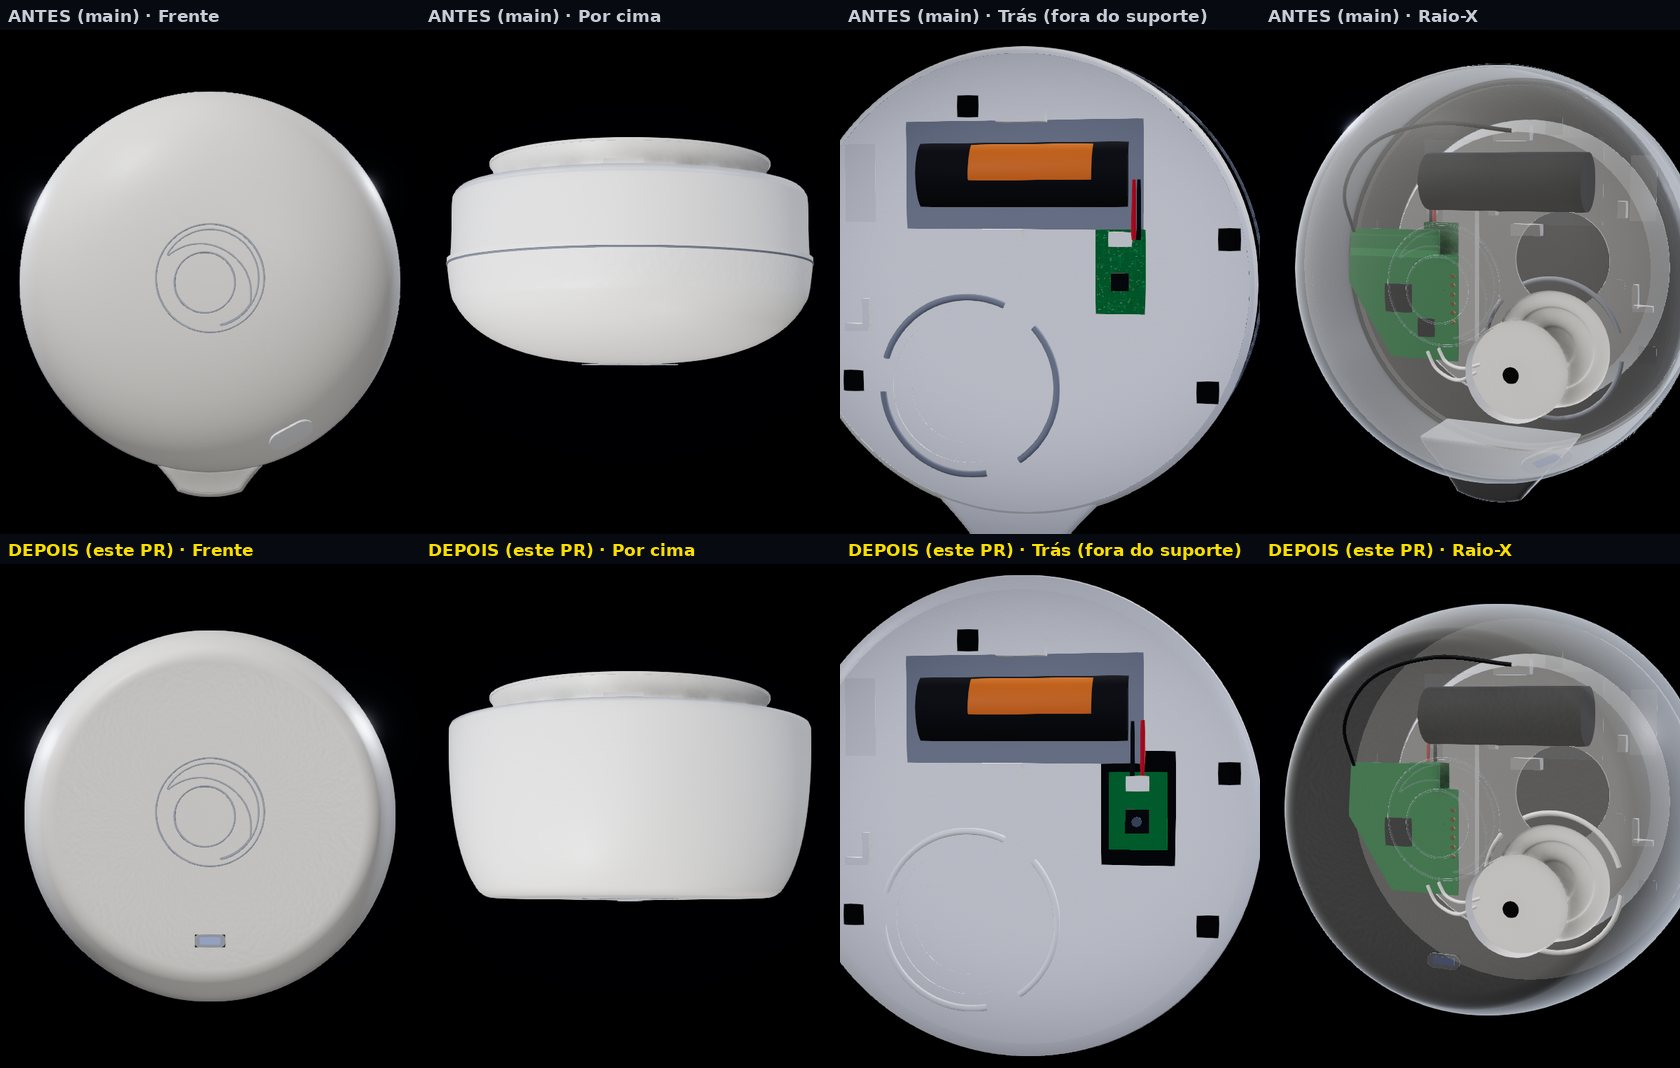
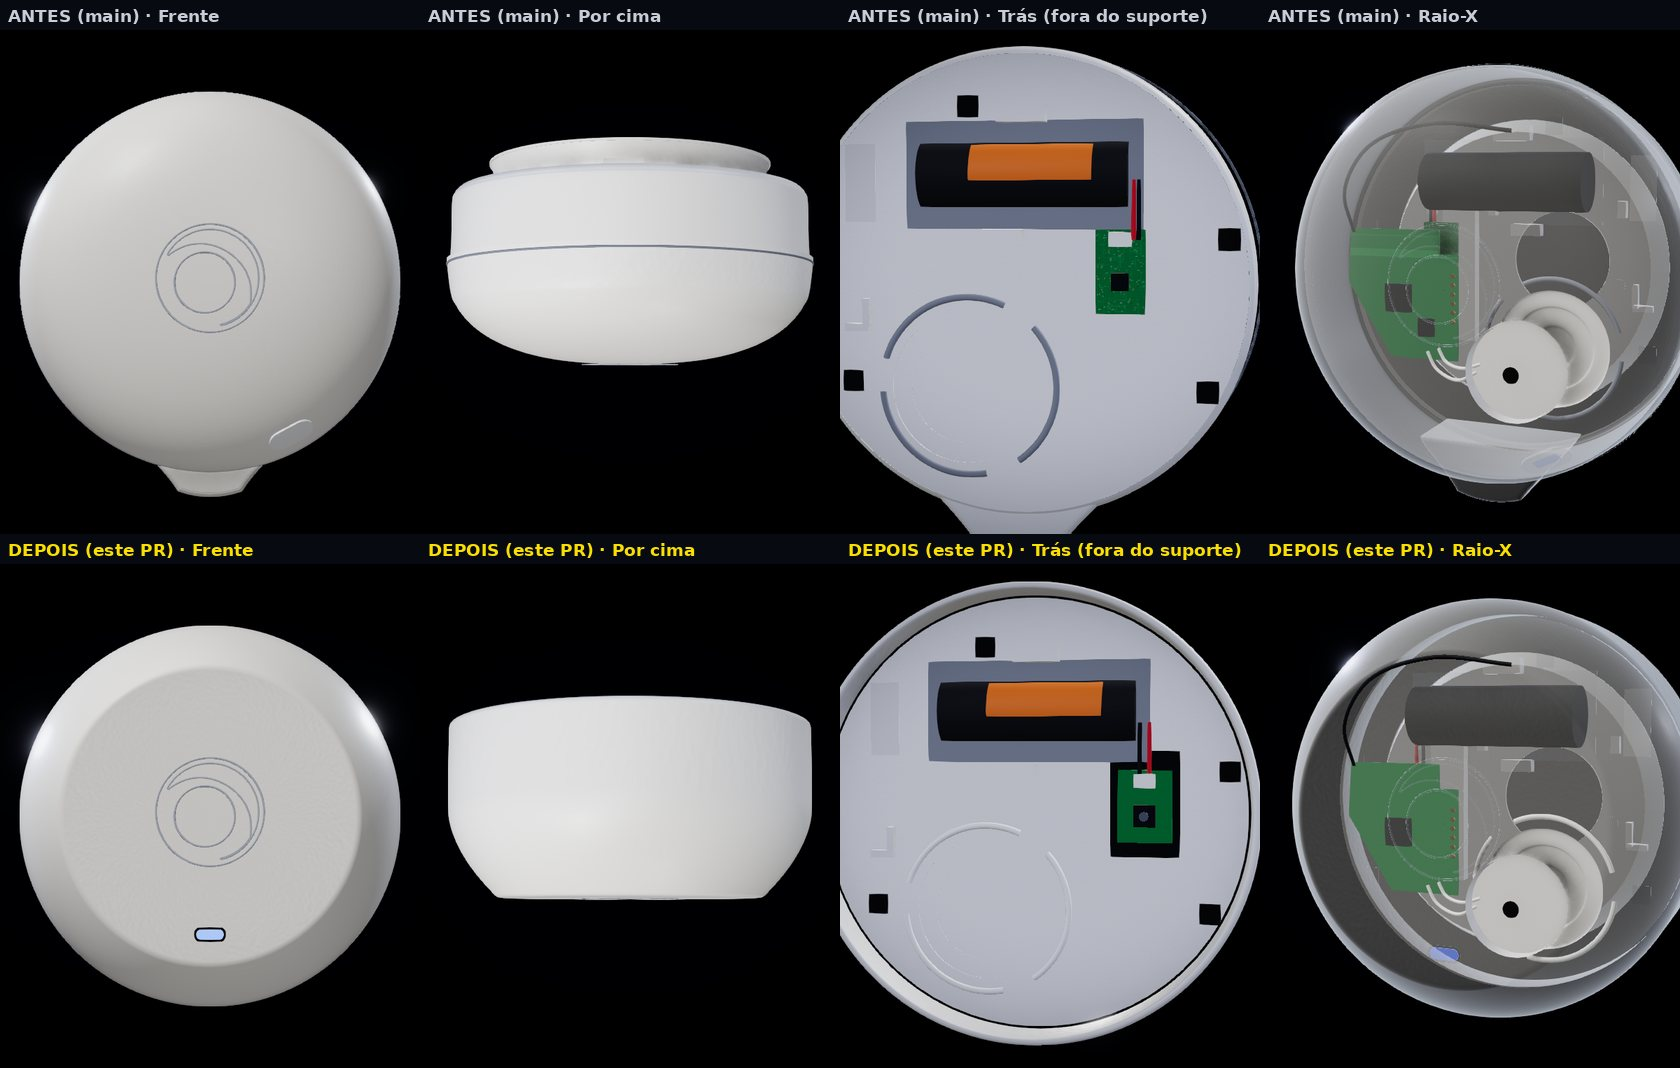
Docs, prints e imagem da abertura: fechos do módulo, pilhas e sirene
- docs/MODELAGEM.md: três apoios e fechos da tampa do módulo, pilhas com
  cor, corpo da sirene até a parede e LED
- docs/prints: módulo e sirene refeitos; fotossensor ganha a vista
  "Pilhas (tampa aberta)" e o Raio-X novo
- public/poster.webp e poster-m.webp: regenerados do build

Claude-Session: https://claude.ai/code/session_01JGedzfrxJd5vL5mskTPSnU

diff --git a/docs/MODELAGEM.md b/docs/MODELAGEM.md
@@ -7,10 +7,10 @@ Materiais: plástico branco acetinado #F1F2F4 com verniz leve e micro-textura (`
 ## Módulo de Comando (planta de 144 × 145 mm, 38 mm de altura; 1 un = 80 mm; frente em +Z)
 
 
-A tampa é uma superfície só: topo plano e nivelado (um disco redondo), canto arredondado e lateral que desce, abrindo, até o contorno em gota (redondo do lado da antena, afinando para uma ponta arredondada na frente). Vista de lado, a tampa é uma ponte: a borda de baixo vai até o fundo na frente (queixo) e atrás (cauda) e sobe em arco nos dois lados, onde aparece a base cinza. A base tem frisos verticais rasos na parede (os sulcos caem em cima das fendas do fundo e somem antes da borda de baixo), fendas curtas de ventilação em volta, três pés baixos, o rebaixo raso da etiqueta (vazio) e o bolsão fundo no meio da borda de trás: grade de som em hexágono (37 furos) na face funda, RJ45 embaixo dela com a boca para quem olha o fundo e o jack da fonte na parede esquerda, a meia altura. A antena não sai do centro: fica num ressalto ao lado do bolsão (à direita de quem olha o fundo); o furo pequeno fica do outro lado.
+A tampa é uma superfície só: topo plano e nivelado (um disco redondo), canto arredondado e lateral que desce, abrindo, até o contorno em gota (redondo do lado da antena, afinando para uma ponta arredondada na frente). A tampa encosta no fundo em três pontos, que é onde ficam os fechos: na frente (largo: de frente, a tampa cobre tudo), atrás à esquerda e atrás à direita. Entre eles a borda sobe em arco: nos dois lados, onde aparece a base cinza, e atrás, por onde saem a antena e os cabos. A base tem frisos verticais rasos na parede (os sulcos caem em cima das fendas do fundo e somem antes da borda de baixo), fendas curtas de ventilação em volta, três pés baixos, o rebaixo raso da etiqueta (vazio) e o bolsão fundo no meio da borda de trás: grade de som em hexágono (37 furos) na face funda, RJ45 embaixo dela com a boca para quem olha o fundo e o jack da fonte na parede esquerda, a meia altura. A antena não sai do centro: fica num ressalto ao lado do bolsão (à direita de quem olha o fundo); o furo pequeno fica do outro lado.
 | part.id | Como é modelada |
 |---|---|
-| `tampa` | Uma malha paramétrica só (`lidGeometry`), desenhada em dois trechos que dividem os vértices: o disco do topo, fosco, e a lateral, com brilho. A altura da borda de baixo em volta do contorno vem de `lidEdge` (queixo, arco, cauda e o recorte da antena). Logo em sulcos finos. Por dentro: bloco do guia de luz com furo de parafuso, ganchos e ressalto. |
+| `tampa` | Uma malha paramétrica só (`lidGeometry`), desenhada em dois trechos que dividem os vértices: o disco do topo, fosco, e a lateral, com brilho. O raio e a altura da borda de baixo em volta do contorno vêm de `lidRim` (os três apoios e os arcos entre eles). Sob cada apoio, uma aba branca com fenda marca o fecho (aparece por baixo). Logo em sulcos finos. Por dentro: bloco do guia de luz com furo de parafuso, ganchos e ressalto. |
 | `botao-sos` | Tecla branca de cantos redondos, rente à tampa, perto da borda da frente, com aro prateado fino. Embaixo dela, um pino de cristal (guia de luz) desce até a placa. A tecla afunda enquanto o 190 é segurado. |
 | `led` | Ponto emissivo pequeno e forte no centro da tecla (escuro quando apagado); o brilho em volta vem do bloom. |
 | `antena` | Conector dourado rosqueado, junta com pino (articulação) e pá extrudada com chanfro. Sai da base, atrás, fora do centro: num ressalto de face plana ao lado do bolsão. |
@@ -42,7 +42,7 @@ O corpo (68 × 137 × 78 mm, mais fundo que largo) é uma casca gerada como supe
 | `suporte` | Trilhos cinza em Λ (mais próximos no alto) da placa de fixação na parede (~31 × 67 mm, ~11 mm de espessura), com os pés na altura da base. O sensor inclina no eixo horizontal do pé. |
 | `placas` (i) | Armação interna com a placa da câmera em cima, a placa do PIR no meio e a antena em mola embaixo (pelas fotos e vídeos; sem etiquetas). |
 | `tampa-traseira` | Cobre a metade de cima da traseira (o compartimento das pilhas): trava no topo, duas abas embaixo, nervuras e etiqueta lisa por dentro. |
-| `pilhas` (i) | 3 pilhas AA na vertical, nas proporções reais (50,5 × 14,5 mm), com polaridades alternadas, num berço preto com mola e contato; pino do anti-sabotagem no alto. Sem marca. Não saem do compartimento. |
+| `pilhas` (i) | 3 pilhas AA na vertical, nas proporções reais (50,5 × 14,5 mm), com polaridades alternadas, num berço preto com mola e contato; pino do anti-sabotagem no alto. Corpo preto com faixa dourada no lado do +, sem marca nem texto. Não saem do compartimento. |
 | `fixacao` | Placa cinza entre os trilhos, num nível mais fundo, com o entalhe retangular no alto e um parafuso perto de baixo. |
 
 ## Sensor Magnético (corpo 93 × 25 × 28 mm, ímã 92 × 12 × 15 mm, vão de 7 mm; 1 un = 49,5 mm; frente em +Z)
@@ -61,8 +61,8 @@ A traseira é uma placa branca plana, sem tampa extra: é o suporte que cobre es
 
 | part.id | Como é modelada |
 |---|---|
-| `corpo` | Um copo numa peça só (`LatheGeometry` com o perfil exato de `shellProfile`): face plana na frente, ombro arredondado e lateral que abre em curva suave até a parede. Não é cúpula e não tem emenda no meio. Logo em sulcos finos no centro da face. |
-| `led` | Janela pequena de cristal (~10 × 4 mm) na face, perto da borda, centralizada embaixo (6 horas): fica virada para o chão. |
+| `corpo` | Um copo numa peça só (`LatheGeometry` com o perfil exato de `shellProfile`): face plana na frente, quina curta e marcada, barriga que abre rápido até a largura total e lateral reta até a parede. Não é cúpula e não tem emenda no meio. A borda de trás dobra para dentro e forma um recuo: a placa traseira fica dentro dele e o suporte de parede some ali (de lado e de cima, não aparece). Logo em sulcos finos no centro da face. |
+| `led` | Janela pequena (~9 × 3,5 mm) na face, perto da borda, centralizada embaixo (6 horas): moldura escura, luz forte e lente de cristal fina por cima. |
 | `suporte` | Prato de parede: aro aberto em cima (é por onde a sirene desce), fundo extrudado com furo grande e recortes, canal vertical, travas e parafusos. A sirene não gira: desce na vertical e trava com um clique. |
 | `tamper` (i) | Micro-chave preta (~6 × 6 mm, com o botão no meio) numa plaquinha verde (~15 × 20 mm), à direita da traseira, logo abaixo do conector branco da bateria. O ressalto do suporte mantém o botão apertado; fora do suporte, ele sobe ~1 mm. |
 | `encaixe-suporte` (i) | Disco levemente elevado, anel e arcos no centro-baixo da traseira: plástico fixo, que centraliza a sirene no suporte. Não é o tamper. |
